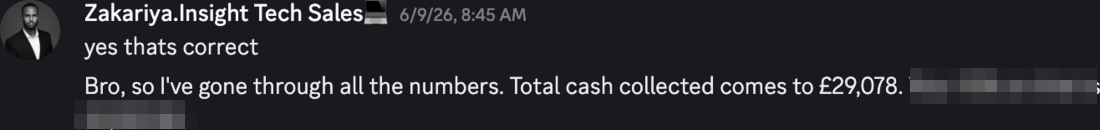
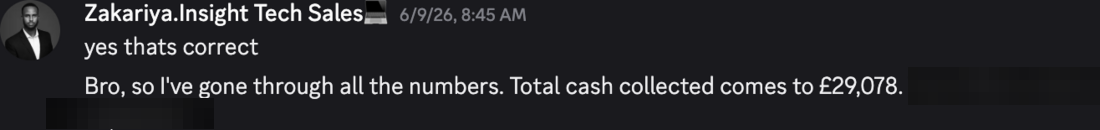
Scrub rev-share number everywhere + better mobile proof wall
The blurred figure kept 'showing' because the flagship printed
it as a text stat: '£2,907 — rev-share paid on one quarter'
(content.ts). Replaced with '£29,078 — cash collected by one
client in a quarter' (the public number from the screenshot).
Also neutralised the flagship alt text, and upgraded both DM
screenshot redactions to blur + pixelate + darken so no
letterforms survive at all.

More Proof on mobile: the 37-calls strip rendered as a 17px
sliver and wide analytics were unreadable in 2 columns. Wide
shots now span full width on mobile, items reordered so the
columns balance, and every screenshot taps open full size.

Changed region(s): [[0.8036, 0.5231, 1.0, 0.8], [0.0618, 0.7692, 0.1855, 1.0]]

diff --git a/src/landing/MoreProof.tsx b/src/landing/MoreProof.tsx
@@ -1,5 +1,7 @@
+import { Maximize2 } from 'lucide-react'
 import { LP } from '../data/landing'
 import { Reveal, SectionHead, shell } from './LpUi'
+import { cn } from '../utils/cn'
 
 export function MoreProof() {
   const { moreProof } = LP
@@ -9,17 +11,34 @@ export function MoreProof() {
       <div className={shell}>
         <SectionHead dark title="More proof" sub={moreProof.sub} />
 
-        <div className="mt-10 columns-2 gap-3 md:mt-12 lg:columns-3 lg:gap-5 [&>*]:mb-3 lg:[&>*]:mb-5">
+        {/* Masonry wall. On mobile the wide shots span both columns so they
+            stay readable, and every shot can be tapped open full size. */}
+        <div className="mt-10 columns-2 gap-3 md:mt-12 lg:columns-3 lg:gap-5 [&>*]:mb-3.5 lg:[&>*]:mb-5">
           {moreProof.items.map((item, i) => (
-            <Reveal key={item.image} delay={(i % 3) * 0.05} className="break-inside-avoid">
+            <Reveal
+              key={item.image}
+              delay={(i % 3) * 0.05}
+              className={cn('break-inside-avoid', item.wide && 'max-lg:[column-span:all]')}
+            >
               <figure>
-                <img
-                  src={item.image}
-                  alt={item.caption}
-                  loading="lazy"
-                  className="block w-full rounded-lg ring-1 ring-white/10 lg:rounded-xl"
-                />
-                <figcaption className="mt-2 flex items-start gap-1.5 text-[11px] font-medium leading-snug text-white/50 sm:text-[13px] lg:mt-2.5 lg:gap-2">
+                <a
+                  href={item.image}
+                  target="_blank"
+                  rel="noreferrer"
+                  title="Open full size"
+                  className="group relative block cursor-zoom-in"
+                >
+                  <img
+                    src={item.image}
+                    alt={item.caption}
+                    loading="lazy"
+                    className="block w-full rounded-xl ring-1 ring-white/10"
+                  />
+                  <span className="absolute bottom-2 right-2 rounded-full bg-black/55 p-1.5 text-white/85 lg:hidden">
+                    <Maximize2 className="h-3.5 w-3.5" />
+                  </span>
+                </a>
+                <figcaption className="mt-2 flex items-start gap-1.5 text-xs font-medium leading-snug text-white/50 sm:text-[13px] lg:mt-2.5 lg:gap-2">
                   <span className="mt-1 h-1.5 w-1.5 shrink-0 rounded-full bg-emerald-400" />
                   {item.caption}
                 </figcaption>
@@ -27,6 +46,8 @@ export function MoreProof() {
             </Reveal>
           ))}
         </div>
+
+        <p className="mt-5 text-xs font-medium text-white/35 lg:hidden">Tap any screenshot to see it full size.</p>
       </div>
     </section>
   )

diff --git a/src/data/landing.ts b/src/data/landing.ts
@@ -277,13 +277,13 @@ export const LP = {
   moreProof: {
     sub: 'Straight out of YouTube Studio and the tracking sheets.',
     items: [
-      { image: '/assets/proof/views-454k.png', caption: '454,684 lifetime views, one channel' },
-      { image: '/assets/proof/calls-july.webp', caption: 'Calls by source — YouTube 35, everything else 6' },
-      { image: '/assets/proof/dm-leads.webp', caption: 'One Miro video filled the inbox with leads' },
-      { image: '/assets/proof/calls-sheet.webp', caption: '37 calls · 47% close rate · 25% paid in full' },
-      { image: '/assets/proof/analytics-arabic.png', caption: 'Arabic channel — search traffic compounding' },
-      { image: '/assets/proof/analytics-insight.png', caption: '34.1K views, +1.3K subs from one video' },
-      { image: '/assets/proof/analytics-appt.png', caption: '17,232 views on a 7-hour course video' },
+      { image: '/assets/proof/views-454k.png', caption: '454,684 lifetime views, one channel', wide: true },
+      { image: '/assets/proof/dm-leads.webp', caption: 'One Miro video filled the inbox with leads', wide: false },
+      { image: '/assets/proof/calls-july.webp', caption: 'Calls by source — YouTube 35, everything else 6', wide: false },
+      { image: '/assets/proof/analytics-arabic.png', caption: 'Arabic channel — search traffic compounding', wide: false },
+      { image: '/assets/proof/calls-sheet.webp', caption: '37 calls · 47% close rate · 25% paid in full', wide: true },
+      { image: '/assets/proof/analytics-insight.png', caption: '34.1K views, +1.3K subs from one video', wide: false },
+      { image: '/assets/proof/analytics-appt.png', caption: '17,232 views on a 7-hour course video', wide: false },
     ],
   },
 

diff --git a/src/sections/Garden.tsx b/src/sections/Garden.tsx
@@ -167,7 +167,7 @@ function ProofPane({ stage }: { stage: (typeof GARDEN.stages)[number] }) {
         </p>
       </div>
       <figure className="thumb-frame-warm overflow-hidden rounded-xl">
-        <img src="/assets/chat/chat-revshare.png" alt="Client chat confirming revenue share payout" loading="lazy" decoding="async" className="img-proof block w-full object-cover" style={{ maxHeight: 180 }} />
+        <img src="/assets/chat/chat-revshare.png" alt="Client chat confirming cash collected" loading="lazy" decoding="async" className="img-proof block w-full object-cover" style={{ maxHeight: 180 }} />
         <figcaption className="flex items-center gap-2 bg-ink-950/90 px-3 py-2 font-sans text-[10.5px] text-white/55">
           <span className="h-1.5 w-1.5 rounded-full bg-emerald-400" />
           Real client message · revenue-share confirmed

diff --git a/src/data/content.ts b/src/data/content.ts
@@ -77,7 +77,7 @@ export const TRUST = {
     { value: '4', label: 'buyer keywords ranked top 3', tone: 'ember' },
     { value: '6', label: 'channels actively managed', tone: 'plain' },
     { value: '9.3K hrs', label: 'watch time banked', tone: 'plain' },
-    { value: '£2,907', label: 'rev-share paid on one quarter', tone: 'ember', placeholder: false },
+    { value: '£29,078', label: 'cash collected by one client in a quarter', tone: 'ember', placeholder: false },
     { value: '14 days', label: 'from kickoff to first published video', tone: 'plain' },
   ],
   footnote: 'Pulled from YouTube Studio, 2025. Screenshots available on the call.',
